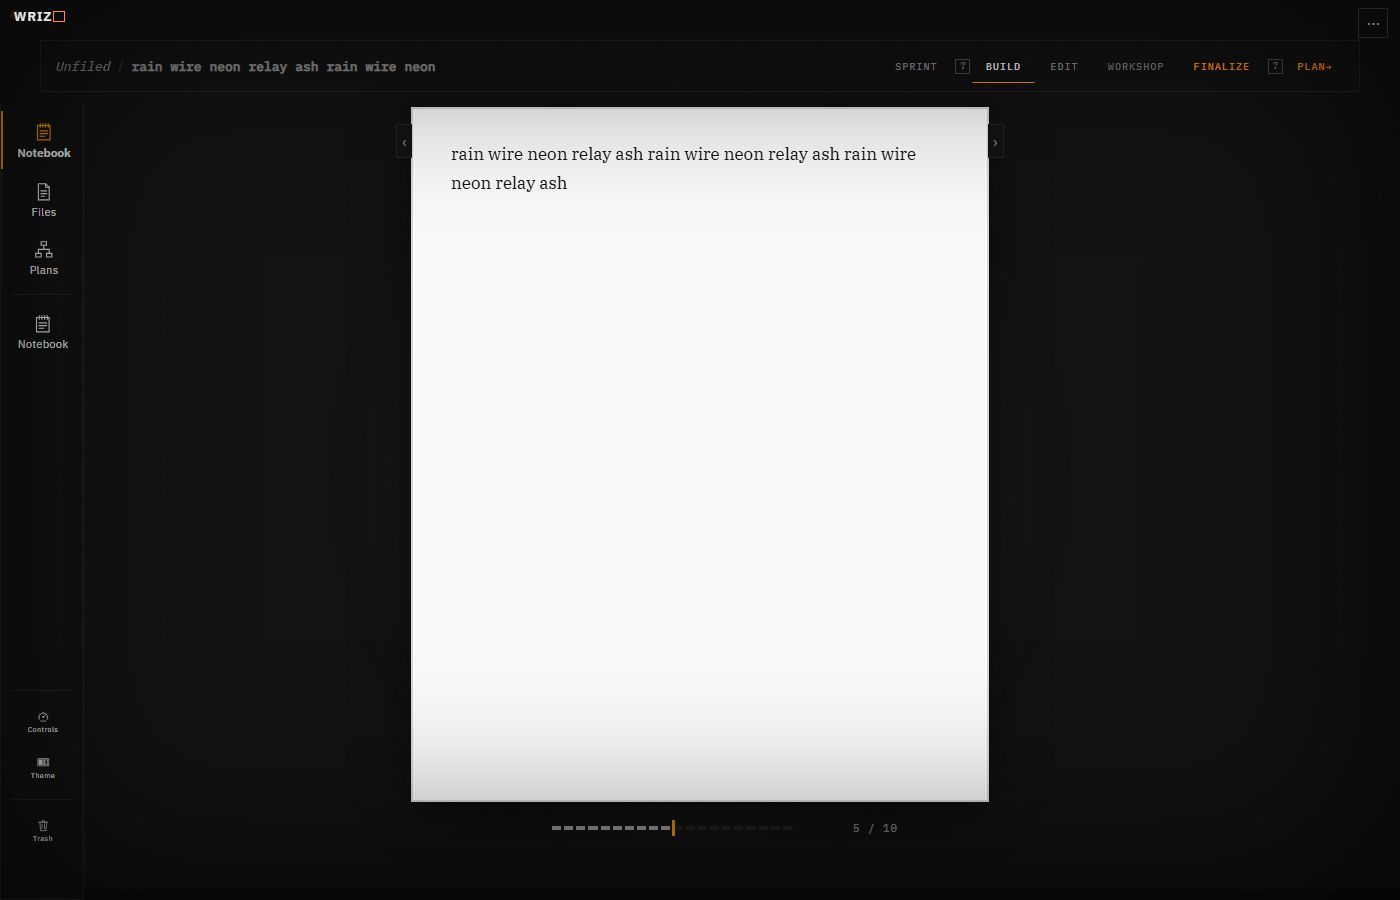
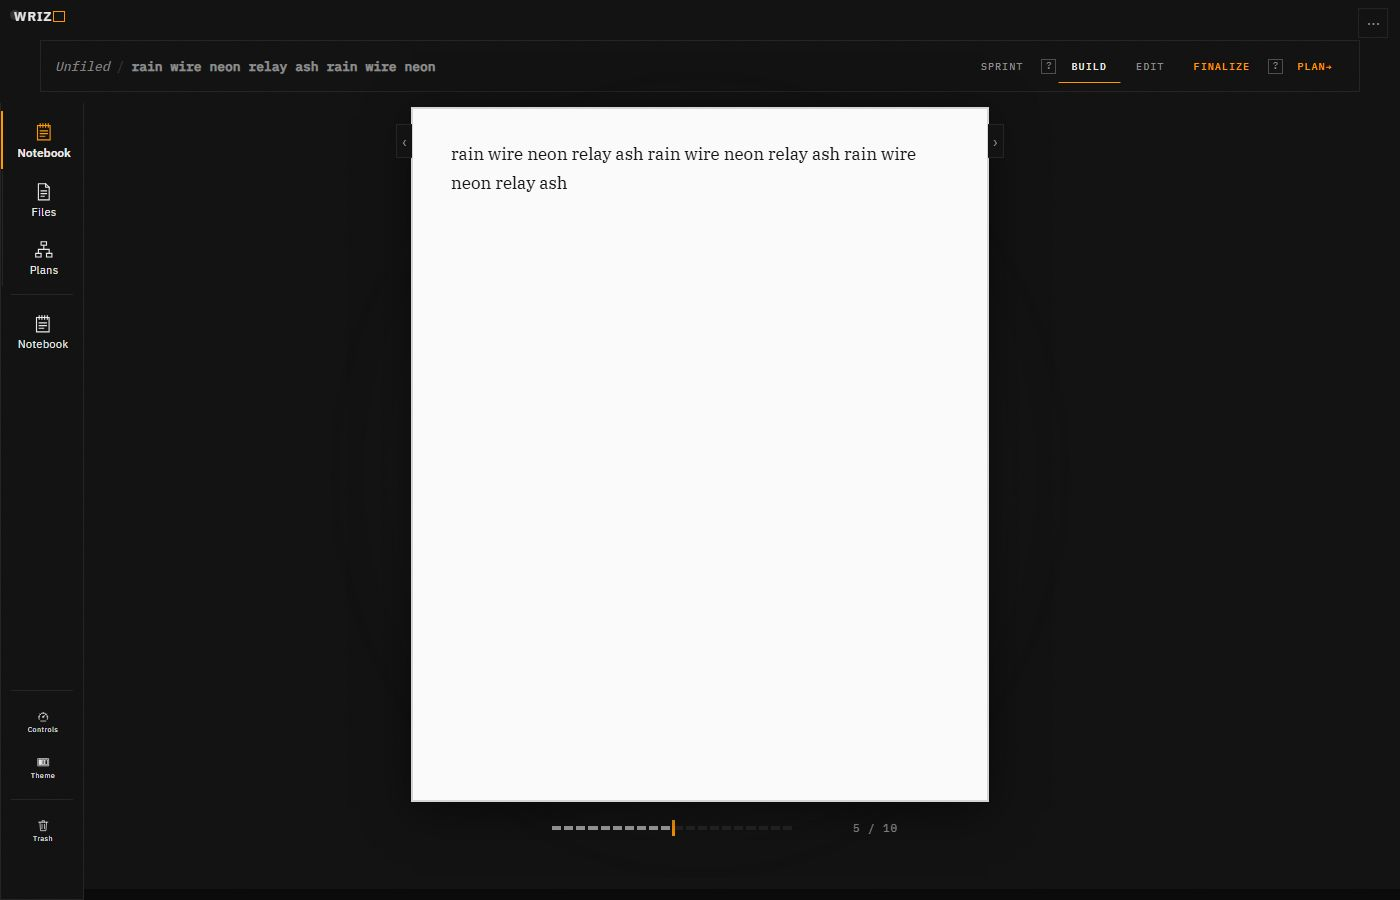
Machina: the vignette sits behind the page (the grey bands gone, as Flux's flux-inputs did); the picker wordmark fits its card; th-machina 29 checks (box half run on the rebased tree), source 72; evidence re-shot

diff --git a/apps/desktop/src/index.css b/apps/desktop/src/index.css
@@ -687,6 +687,8 @@
 [data-theme='machina']{ --goal-glow-cap:.16; }
 [data-theme='machina'] .wz-goal-glow{ background:radial-gradient(ellipse at center, color-mix(in srgb, var(--signal-live) 50%, transparent) 0%, color-mix(in srgb, var(--signal-live) 20%, transparent) 40%, transparent 68%); }
 [data-theme='machina'] .desk-frame-goalflare{ display:none; }
+/* the vignette sits BEHIND the content (the rule Flux's flux-inputs gave itself, Oct 23): it shades the room, never the page - the empty light page showed grey bands top and bottom */
+[data-theme='machina'] body::after{ z-index:-1; }
 /* RUN (components/RunStrip.tsx) - the cursor/machina-v1-mockup footer strip: twenty identical 4px units 3px apart, gray when finished, an orange 3x16 notch on the unit in progress, the count once
    after the bar. It rides the framed page's instrument lane (the band under the paper), right-aligned to the paper's edge - the mockup's "right of the footer". Closed at the goal = the whole strip
    orange (a .35s colour crossfade - the foundations' fill handoff); NEUTRAL adds eight 9x1px sparks from the last unit (.6s, 20ms stagger, the RC's own constants), never under COOL. */
@@ -5187,7 +5189,7 @@ a:focus-visible,
    (the theme's own mark face; the faces load on the card's first hover/focus, ThemePicker.tsx - until then the fallback stack), the orange outlined square its O. The plate is the Run strip:
    twenty units, the notch on the first unfinished one; hover/focus RUNS it once (units fill in sequence, the notch travels), the still frame holds it part-filled. */
 .wz-theme-card-machina .wz-theme-plate{ background:linear-gradient(180deg, #12141A 0%, #0A0B0E 70%); }
-.wz-theme-wm-machina{ font-family:'IBM Plex Sans', system-ui, sans-serif; font-weight:600; letter-spacing:.14em; text-transform:uppercase; color:#E6E9F1; font-size:24px; }
+.wz-theme-wm-machina{ font-family:'IBM Plex Sans', system-ui, sans-serif; font-weight:600; letter-spacing:.1em; text-transform:uppercase; color:#E6E9F1; font-size:15px; white-space:nowrap; }
 .wz-theme-wm-machina::after{ content:''; display:inline-block; width:.62em; height:.62em; border:2px solid #FF9800; margin-left:.18em; vertical-align:-.02em; }
 .wz-theme-plate-run{ position:absolute; left:14%; right:14%; bottom:22%; height:16px; display:flex; align-items:center; gap:3px; }
 .wz-theme-plate-run > i{ flex:1; height:4px; background:#252933; transition:background-color .2s ease; transition-delay:calc(var(--i) * 45ms); }

diff --git a/docs/evidence/machina-phase-b/README.md b/docs/evidence/machina-phase-b/README.md
@@ -7,7 +7,8 @@ Captured by `apps/desktop/scripts/harness/th-machina.mjs` (`MA_FRAMES=<dir>`), t
 | --- | --- |
 | app-run-default-style | COOL, dark page, the DEFAULT progress style ("bar"): Run is the only instrument, no Arbor bar / orange WORDS (5 / 10) |
 | app-run-neutral-dark / -after | NEUTRAL, dark: the notch is orange; `-after` is the page after the celebration (the closed strip has reset to the next lap) |
-| app-run-cool-light / app-run-neutral-light | the light page in both casts (the gray bands at the paper's top/bottom are the vignette INK fixes in flux-inputs; confirm after the rebase) |
+| app-run-cool-light / app-run-neutral-light | the light page in both casts, re-shot on the rebased branch: the gray bands at the paper's top/bottom are GONE (Machina carries flux-inputs' `body::after{ z-index:-1 }` rule - it was Flux-scoped; Arbor's own light page still shows the bands, see app-picker-arbor behind the panel) |
+| app-picker-arbor / app-picker-machina | the theme picker: Arbor, Machina, Flux in the arc's order; the Machina card (Run-strip plate, wordmark with its orange square) locked under Arbor (no unlock data on the box), pressed (brass outline) once Machina is current |
 | app-splash-filling / app-splash-closed | the Machina splash mid-fill and closing (the strip crossfades to orange); no loading line |
 | app-controls-cool / app-controls-neutral | Controls with the ONE "Cast: Cool | Neutral" row |
 | app-journal-cool-dark / app-journal-neutral-dark | the return chip `◂` (1000 px wide - the rail, and so the chip, retires on a framed surface): gray under COOL, orange under NEUTRAL |
